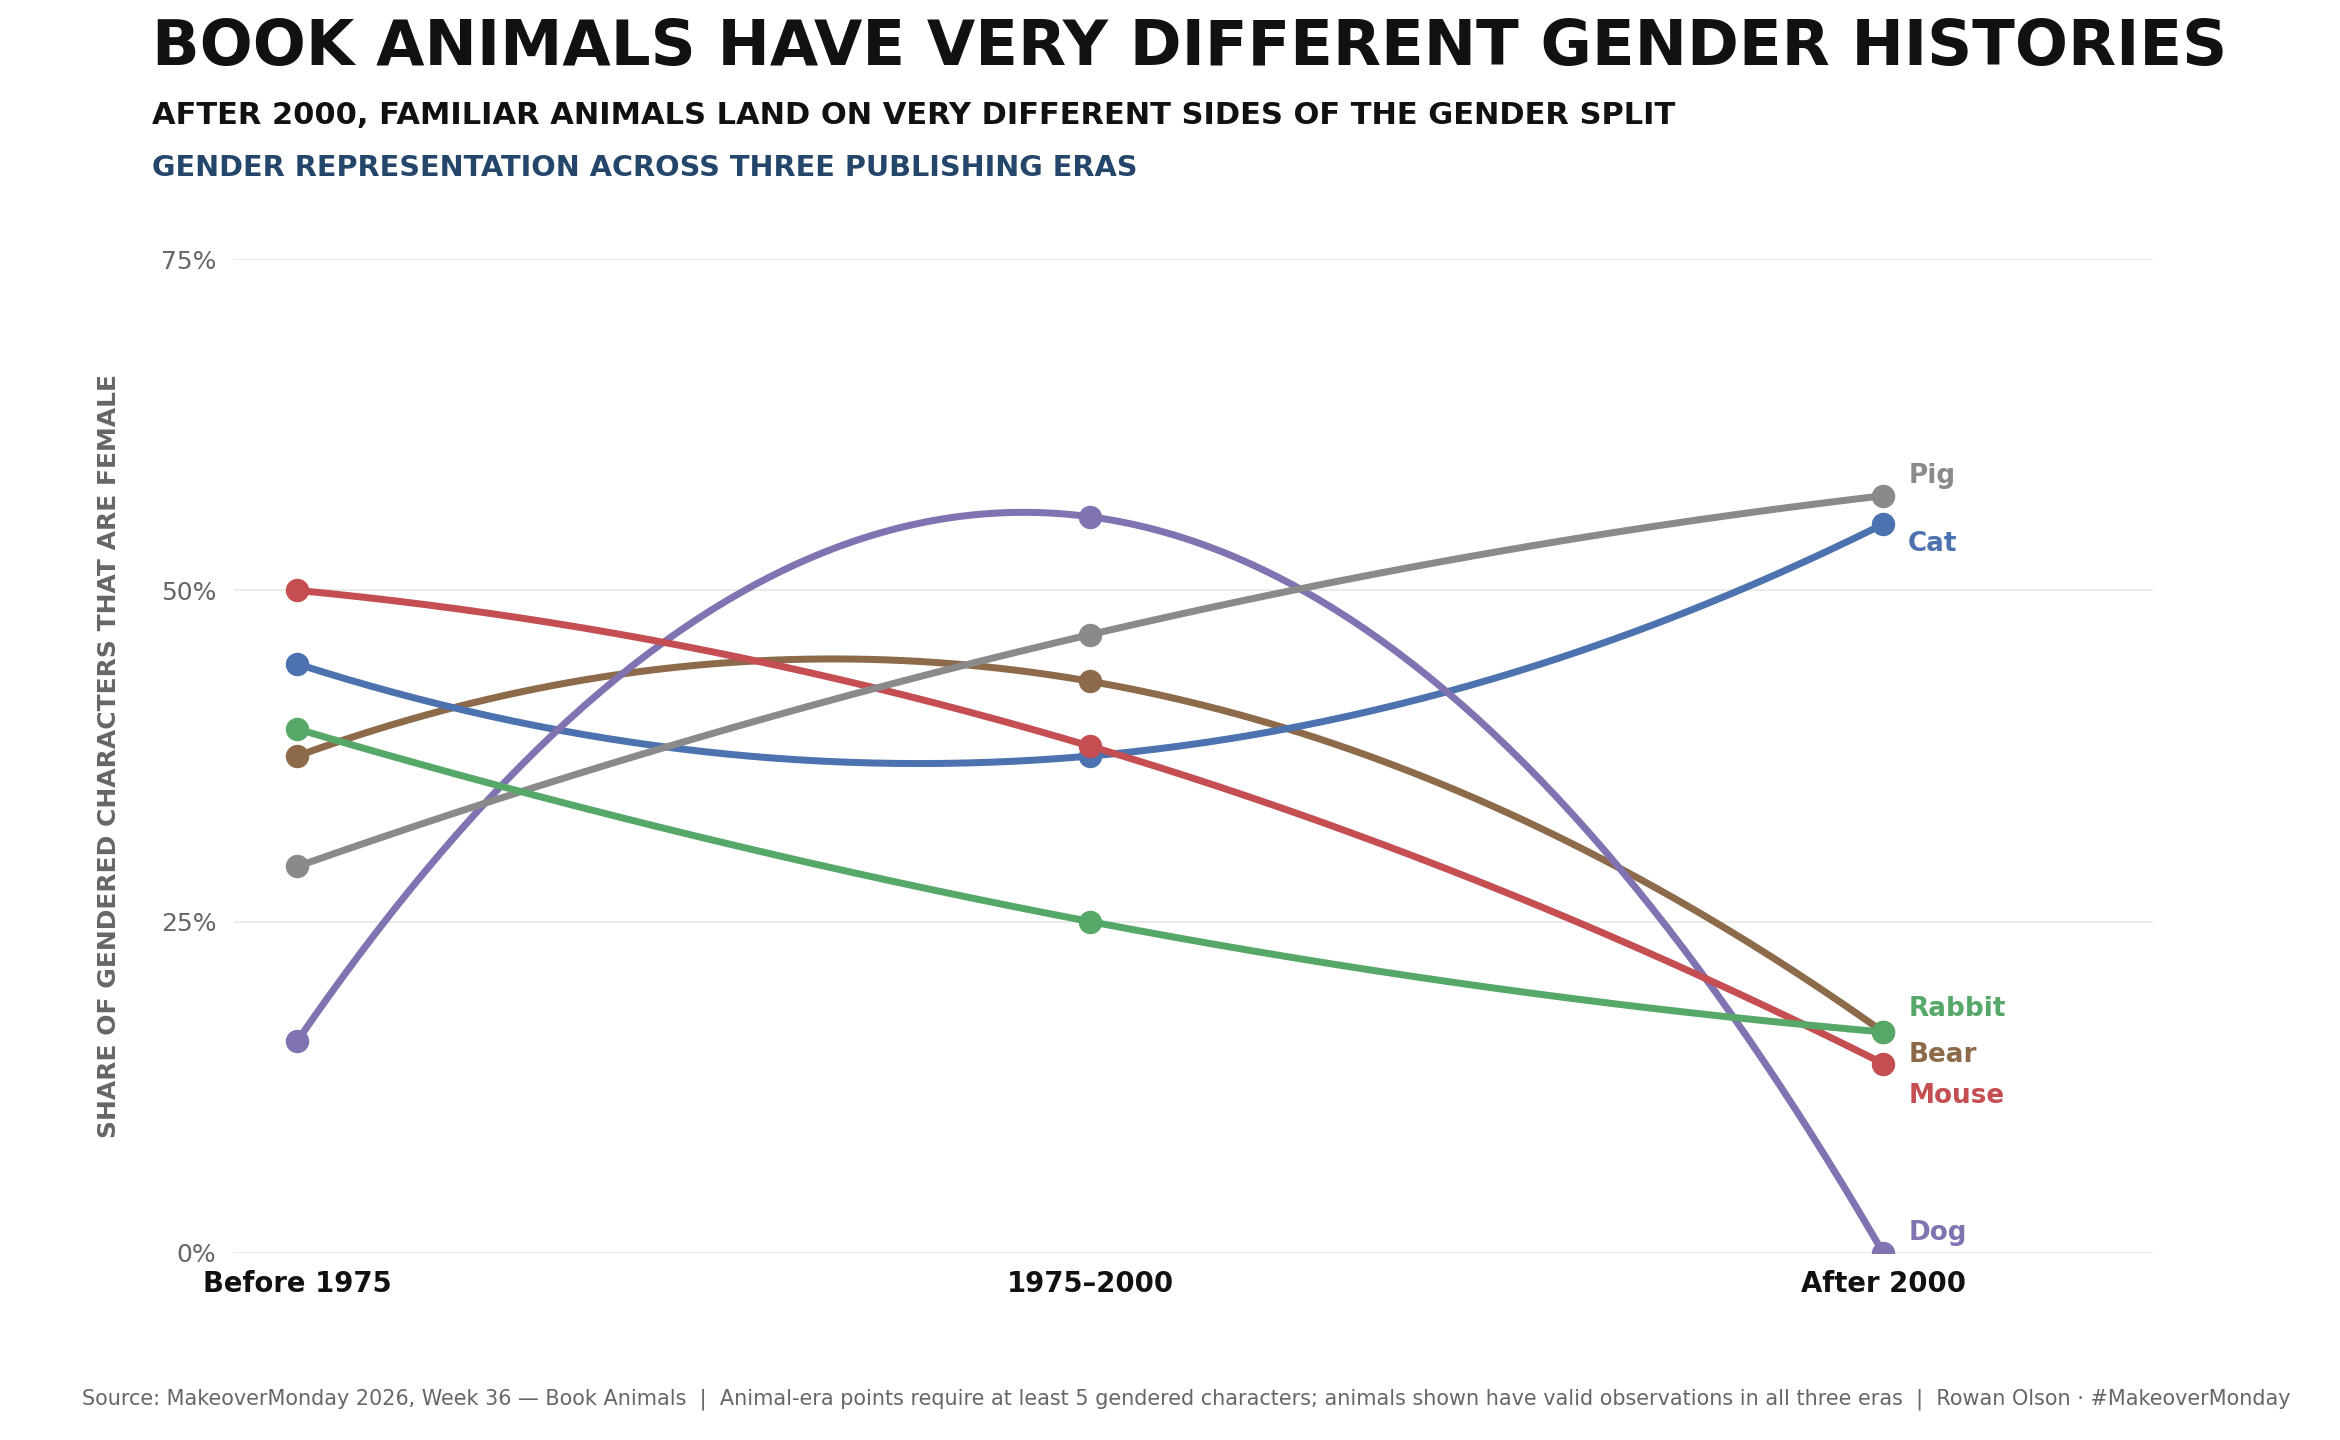
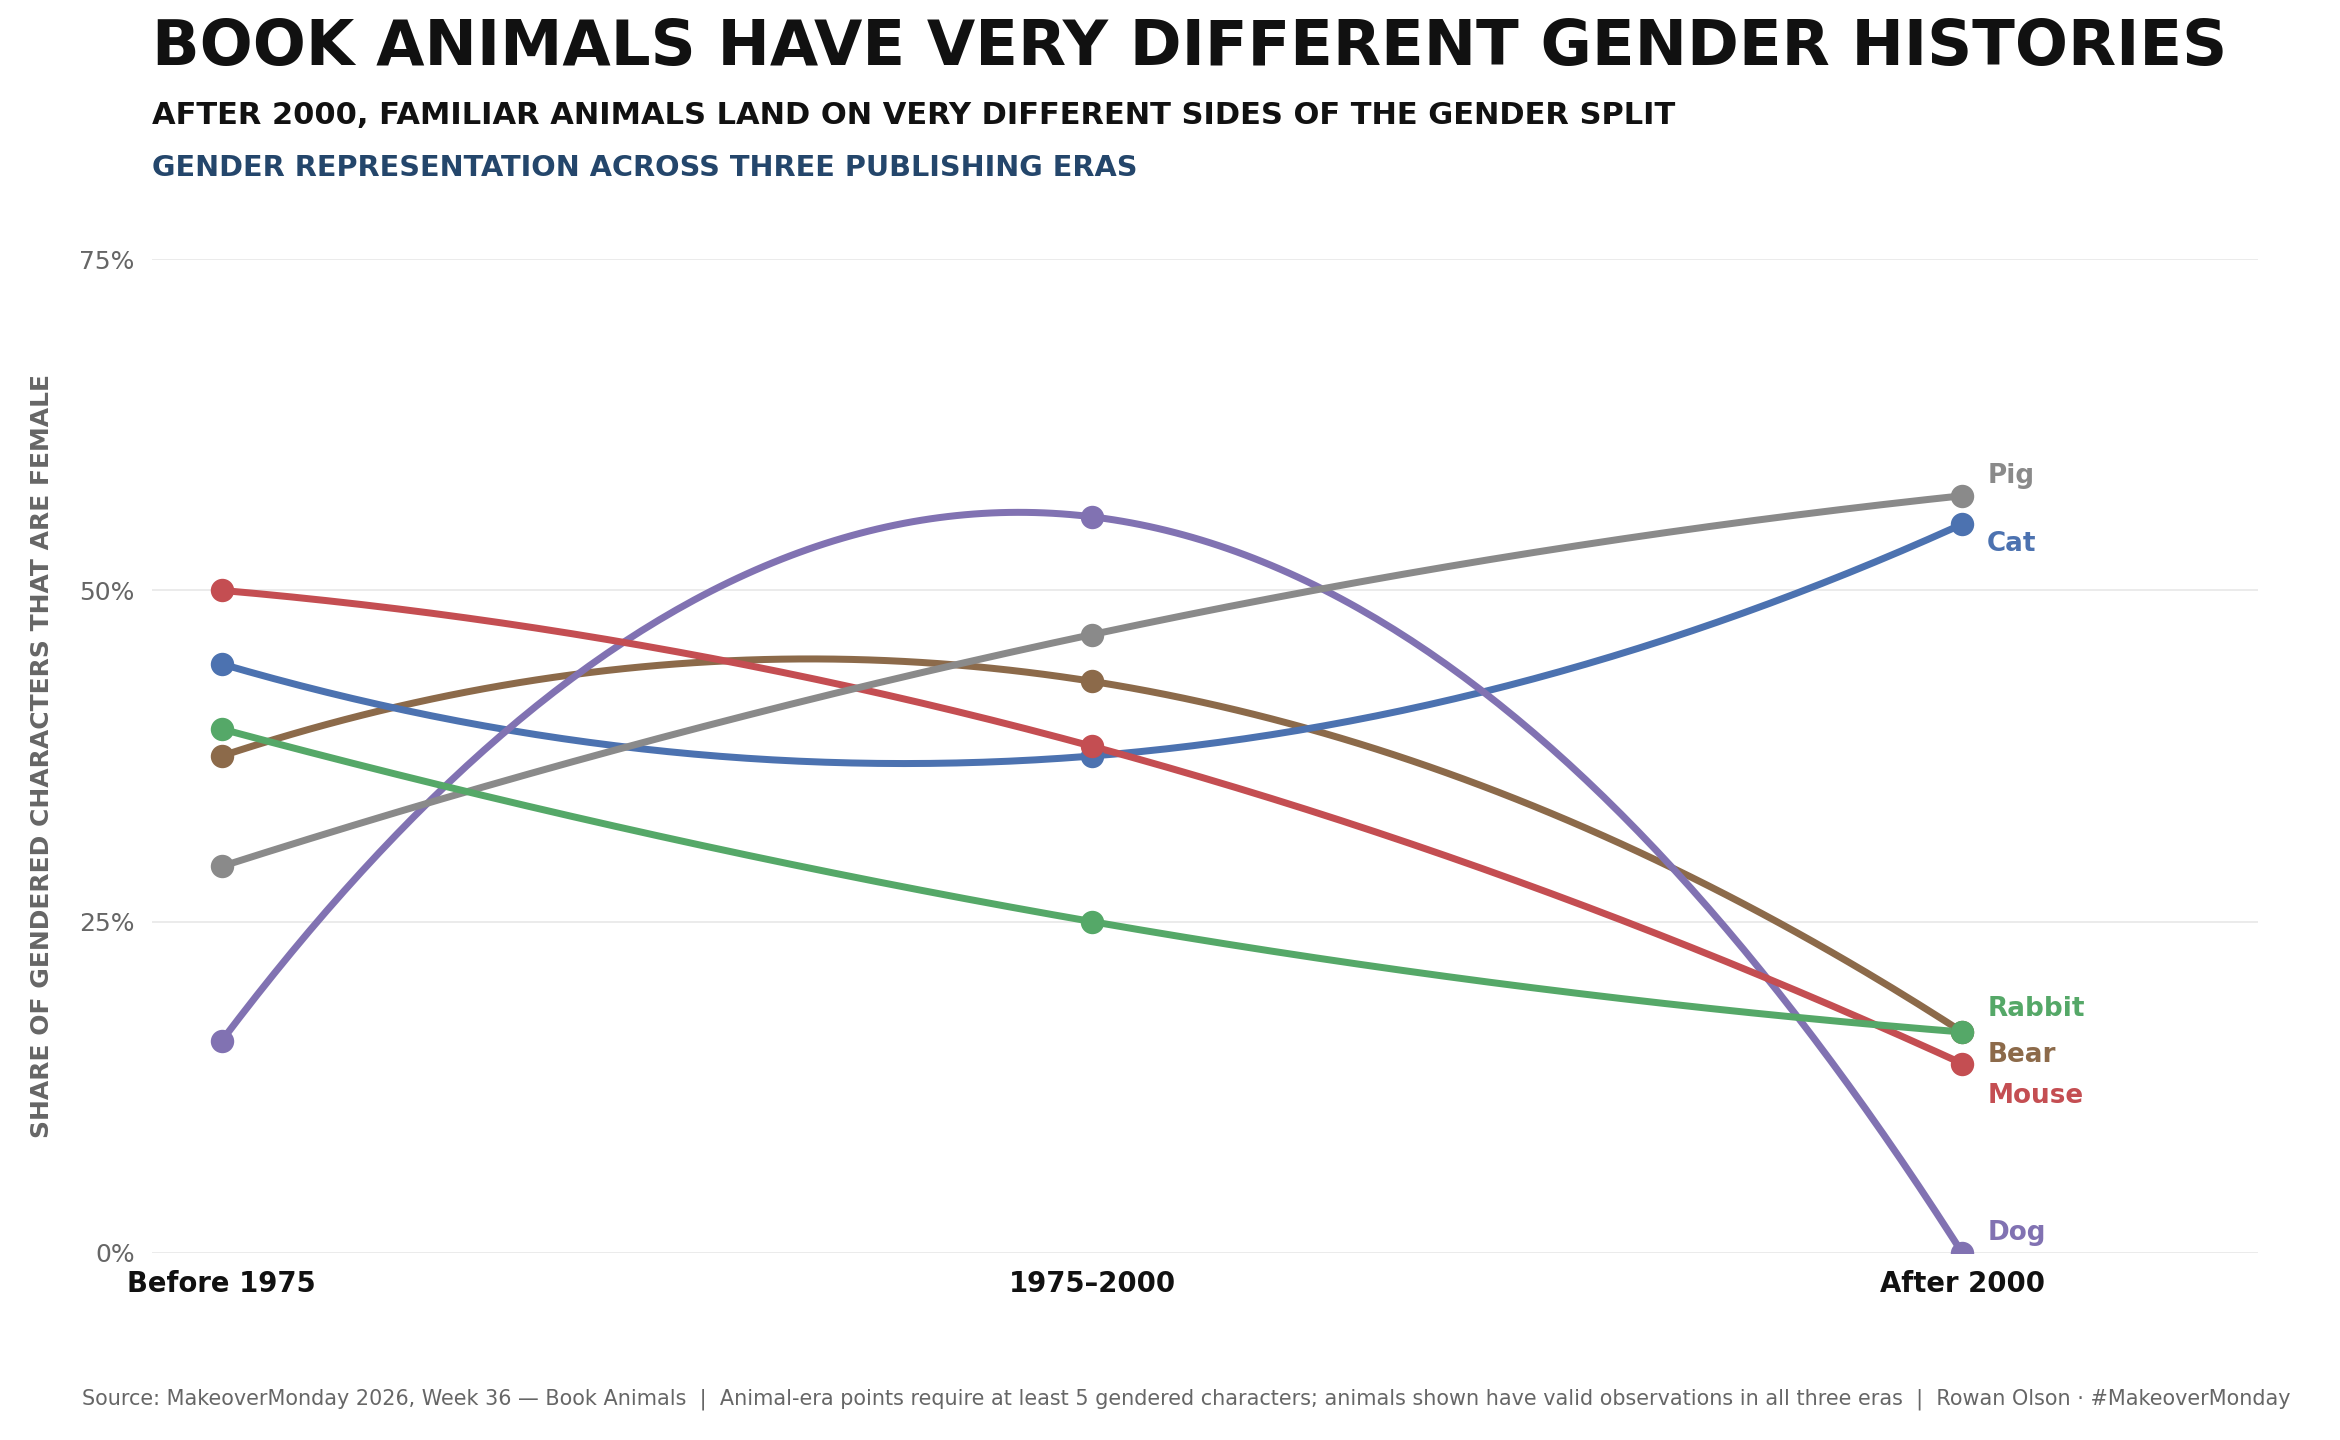
2026 W36

diff --git a/2026 Week 36 Book Animals/bookanimals.py b/2026 Week 36 Book Animals/bookanimals.py
@@ -39,7 +39,8 @@ for animal in animals:
     ax.plot(smooth_x, smooth_y, color=COLORS[animal], linewidth=2.8, zorder=2, solid_capstyle='round')
     ax.scatter(x, y, s=70, color=COLORS[animal], zorder=3)
     dx, dy = LABEL_OFFSETS.get(animal, (10,0))
-    ax.annotate(LABELS[animal], xy=(2, y[-1]), xytext=(dx,dy), textcoords='offset points', fontsize=10.5, fontfamily=FONT, fontweight='bold', color=COLORS[animal], ha='left', va='center')
+    ax.annotate(LABELS[animal], xy=(2, y[-1]), xytext=(dx,dy), textcoords='offset points', fontsize=10.5, fontfamily=FONT, fontweight='bold', color=COLORS[animal], 
+        ha='left', va='center')
 
 ax.set_xlim(-0.08, 2.34)
 ax.set_ylim(0, 0.75)
@@ -47,7 +48,7 @@ ax.set_xticks(range(3))
 ax.set_xticklabels(ERAS, fontsize=11, fontfamily=FONT, fontweight='bold', color=TEXT)
 ax.set_yticks([0,0.25,0.5,0.75])
 ax.set_yticklabels(['0%','25%','50%','75%'], fontsize=10, fontfamily=FONT, color=MUTED)
-ax.set_ylabel('SHARE OF GENDERED CHARACTERS THAT ARE FEMALE', fontsize=10, fontfamily=FONT, fontweight='bold', color=MUTED, labelpad=16)
+ax.set_ylabel('SHARE OF GENDERED CHARACTERS THAT ARE FEMALE', fontsize=10, fontfamily=FONT, fontweight='bold', color=MUTED, labelpad=10)
 ax.grid(True, axis='y', color=GRID, linewidth=0.7, alpha=0.8, zorder=0)
 ax.tick_params(left=False, bottom=False)
 
@@ -58,6 +59,6 @@ fig.text(0.065, 0.914, 'AFTER 2000, FAMILIAR ANIMALS LAND ON VERY DIFFERENT SIDE
 fig.text(0.065, 0.878, 'GENDER REPRESENTATION ACROSS THREE PUBLISHING ERAS', fontsize=11.5, fontfamily=FONT, fontweight='bold', color='#24466B', ha='left')
 fig.text(0.035, 0.025, 'Source: MakeoverMonday 2026, Week 36 — Book Animals  |  Animal-era points require at least 5 gendered characters; animals shown have valid observations in all three eras  |  Rowan Olson · #MakeoverMonday', fontsize=8.3, fontfamily=FONT, color=MUTED, ha='left')
 
-fig.subplots_adjust(left=0.10, right=0.92, top=0.82, bottom=0.13)
+fig.subplots_adjust(left=0.065, right=0.965, top=0.82, bottom=0.13)
 plt.savefig(HERE / 'bookanimals.png', dpi=180, facecolor=BG)
 plt.show()
